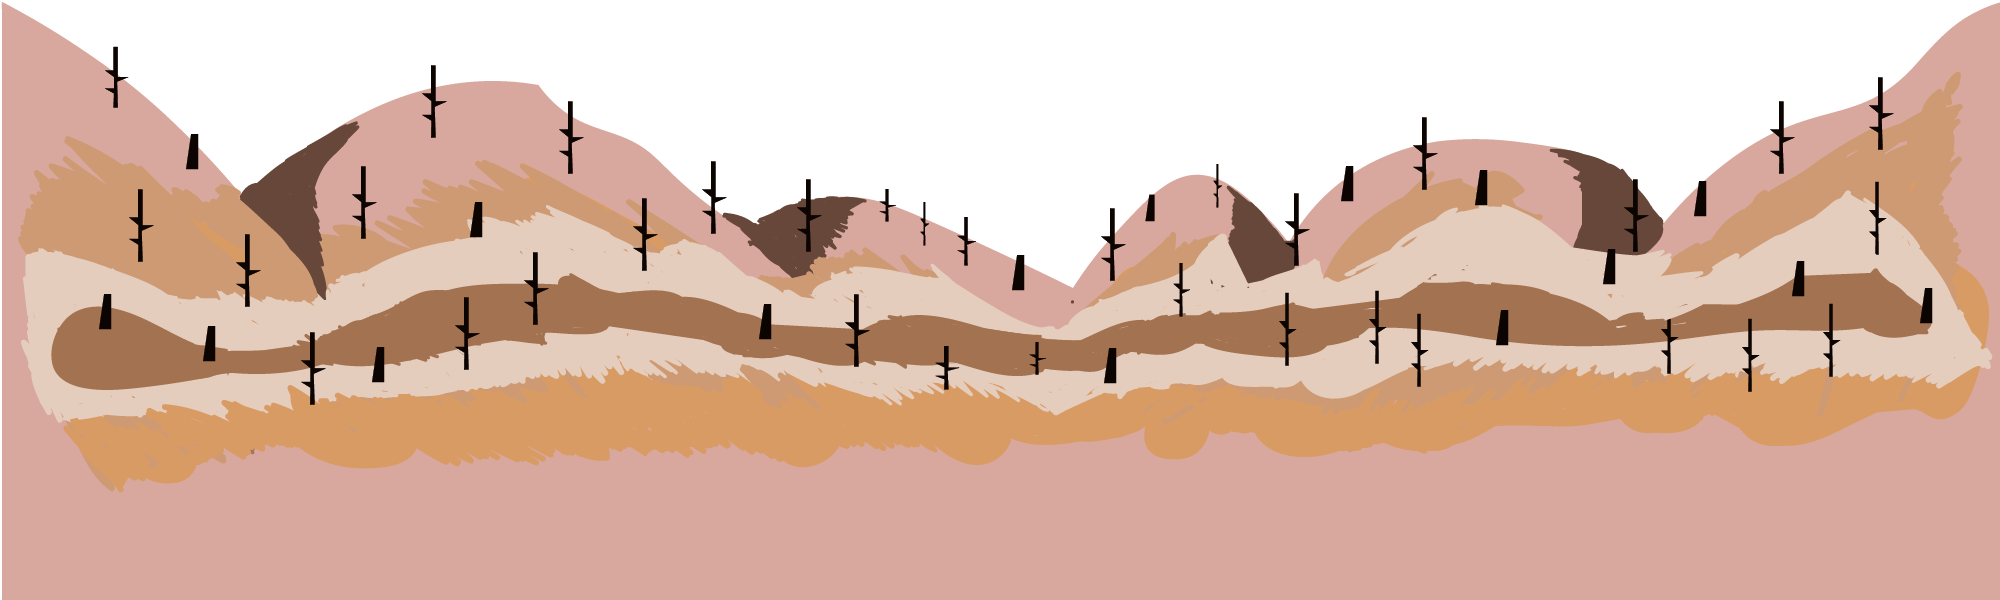
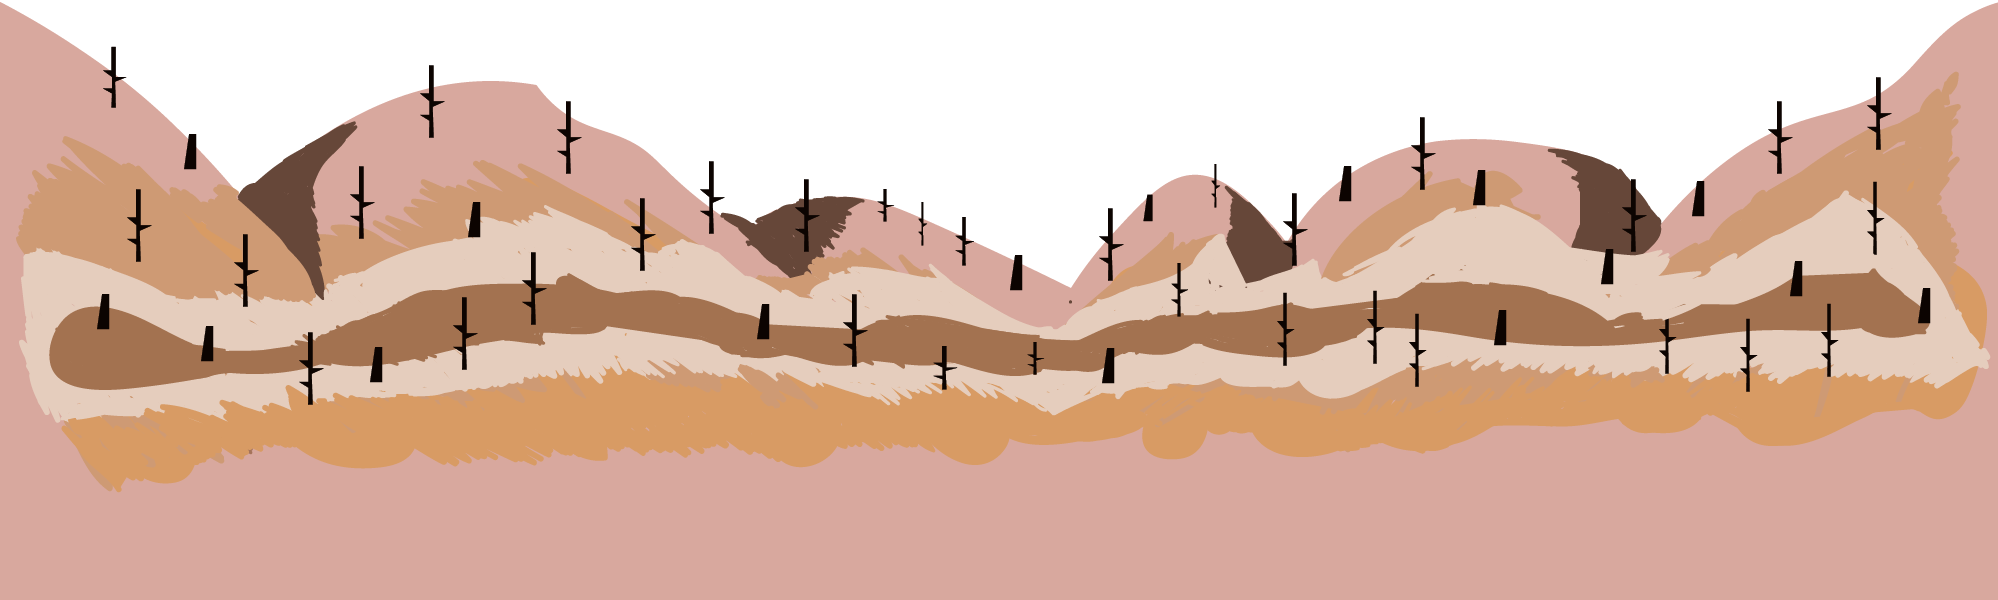
adding bg trans

diff --git a/phoenix_EQV/js/states/Play.js b/phoenix_EQV/js/states/Play.js
@@ -166,9 +166,15 @@ Play.prototype = {
 		// add background image/tilemaps
 		// add the bg
 		bg = game.add.tileSprite(0, 0, 3000, 2000, 'bg');
-		bg_trees = game.add.tileSprite(0, 0, 1989, 2386, 'bg_tree');
+		bg_trees = game.add.tileSprite(0, 0, 3000, 2000, 'bg_tree');
 		bg.fixedToCamera = true;
 		bg_trees.fixedToCamera = true;
+
+		bg_mountains = game.add.tileSprite(0, game.height - 600, 3000, 600, 'bg_mountain');
+		bg_mountains.fixedToCamera = true;
+		bg_mountains.visible = false;
+
+		bg_trans = 18150;
 
 		// Create the tilemap object from the map JSON data
 
@@ -442,7 +448,18 @@ Play.prototype = {
 		// update the tilesprites for prallaxing
 		bg_trees.tilePosition.x = -camera.view.x / 5;
 		bg_trees.tilePosition.y = -camera.view.y / 5;
+		bg_mountains.tilePosition.x = -camera.view.x / 5;
 		bg.tilePosition.y = -camera.view.y / 10;
+
+		// switch tilesprite bgs
+		if (this.player.x > bg_trans) {
+			bg_trees.visible = false;
+			bg_mountains.visible = true;
+		}
+		else {
+			bg_trees.visible = true;
+			bg_mountains.visible = false;
+		}
 
 		// Update player body properties
 		body.drag.x = features.dragX;
@@ -702,6 +719,7 @@ Play.prototype = {
 
 		// Render the frame rate
 		debug.text('FPS: ' + this.time.fps || '--', 50, 50, "red");
+		debug.text('X: ' + this.player.x + ' Y: ' + this.player.y, 50, 100, 'red');
 
 		// Render the keyboard controls
 		if(controls.controls.isDown) {

diff --git a/phoenix_EQV/js/states/Load.js b/phoenix_EQV/js/states/Load.js
@@ -79,6 +79,9 @@ Load.prototype = {
 		// splash screen
 		game.load.image('splash', 'meta/splash.png');
 
+		// BACKGROUND
+		game.load.image('bg_mountain', 'bg/mountain.png');
+
 		// player
 		//load the player
 		game.load.path = 'assets/img/entity/phoenix/';
@@ -156,9 +159,11 @@ Load.prototype = {
 
 		// aminals
 		game.load.path = 'assets/audio/fx/animals/';
-		// screech
-		game.load.audio('screech', ['screech.mp3', 'screech.ogg']);
-		game.load.audio('burrel', ['burrel1.mp3']);
+		game.load.audio('screech', ['screech.mp3', 'screech.ogg']); // screech
+		
+		game.load.audio('burrel_sound', ['burrel1.mp3', 'burrel1.ogg']);
+		game.load.audio('fox_sound', ['fox_call.mp3', 'fox_call.ogg']);
+		game.load.audio('deer_sound', ['deer.mp3', 'deer.ogg']);
 		// .........
 
 		// environ sounds
